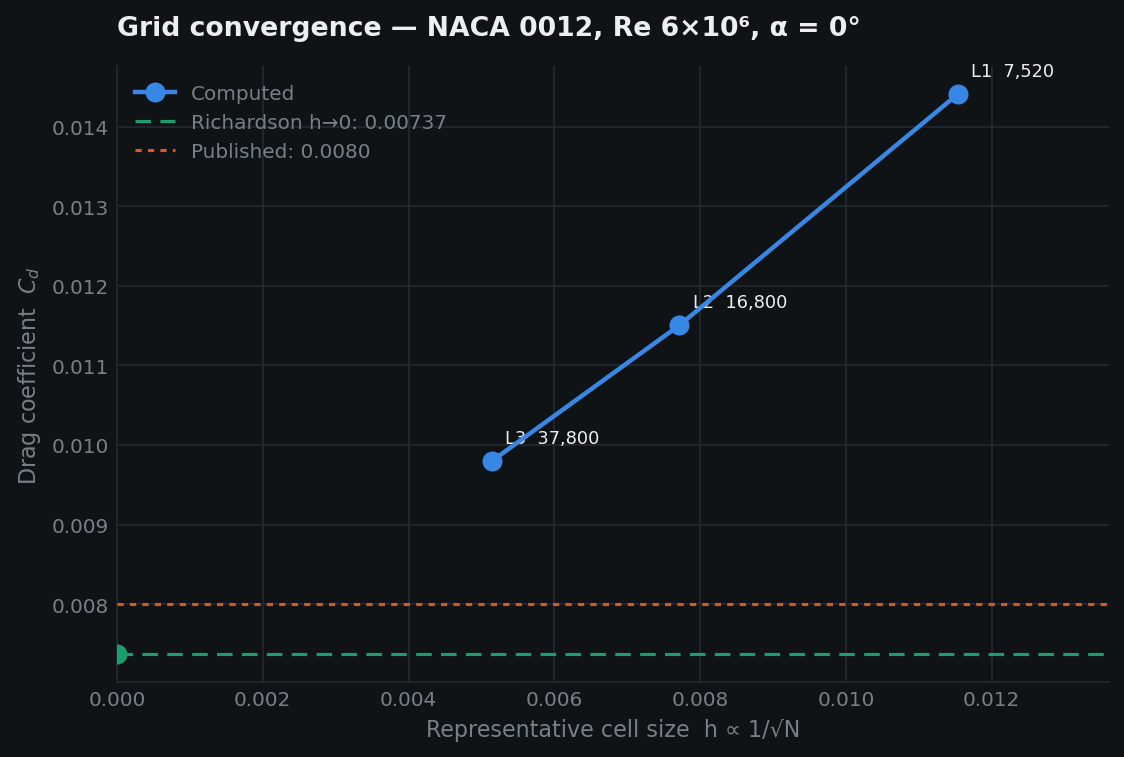
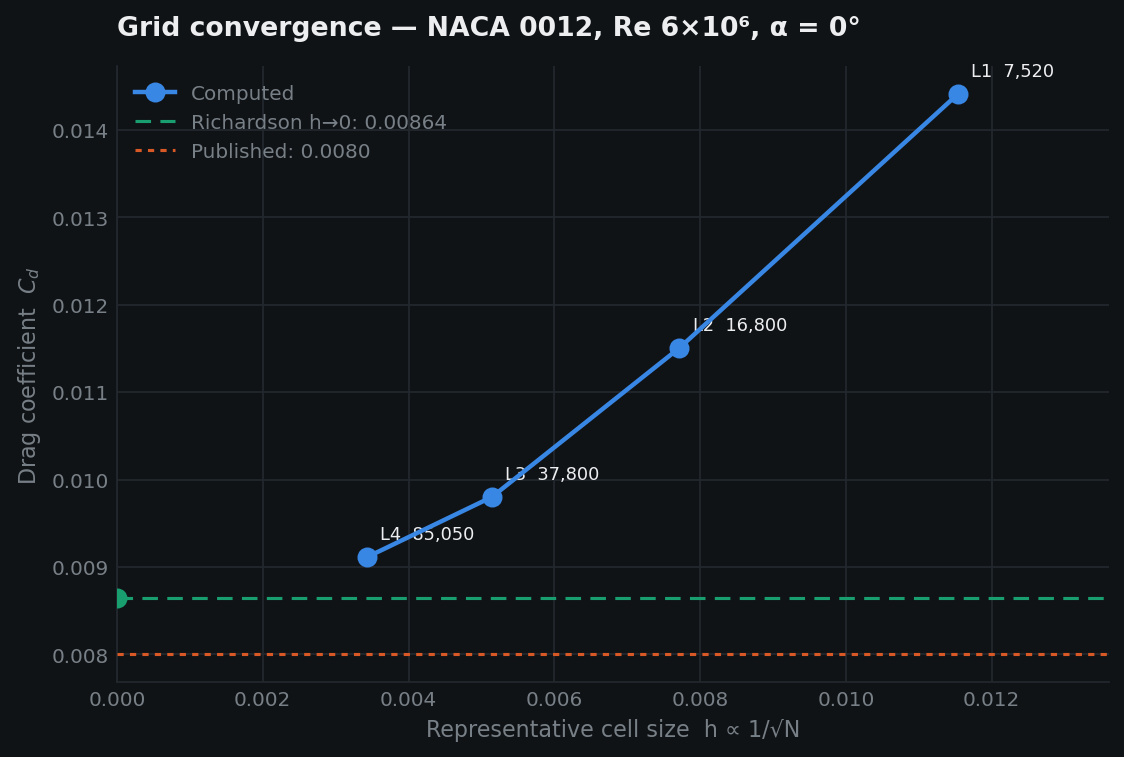
Complete the mesh independence study with the finest level
L4 at 85 050 cells gives Cd 0.009111 and changes the conclusion, not just
its precision.

On the three coarsest levels the analysis reported an observed order of
1.31, an extrapolation of 0.00737 and a GCI of 31%. With L4 the order is
2.24 — close to the scheme's formal second order — the band narrows to
6.4%, and the extrapolation moves to 0.008645.

That is the opposite side of the published 0.0080. The coarse-grid answer
was not merely less precise, it was biased the other way, and it looked
entirely respectable at the time: monotone sequence, plausible order, and
agreement with published data to 8%. Three grids are the minimum
Richardson needs; they are not evidence of being in the asymptotic range.
Computing the observed order instead of assuming p = 2 is what exposes
the difference.

The residual +8.1% slightly exceeds the 6.4% numerical uncertainty, so
some of it is modelling rather than discretisation, and the sign is the
expected one: k-omega SST without a transition model computes fully
turbulent flow from the leading edge, while the published measurement is
a smooth aerofoil at Re 6e6 with natural transition and a laminar run
over the forward chord. A fully turbulent computation should over-predict
drag. Confirming that needs kOmegaSSTLM rather than an assertion here.

Cl stays at the 1e-6 level across all four refinements.

diff --git a/README.md b/README.md
@@ -38,7 +38,7 @@ write lands in the container and vanishes with `--rm`.
 | checkMesh | non-orthogonality **69.7 max** (limit 70), skewness **1.00**, no negative volumes |
 | y+ on the aerofoil | **0.45 – 0.93**, average 0.68 — resolved, no wall functions |
 | Cl at α = 0 | **−4.2e-05** — symmetry holds, as a NACA 0012 requires |
-| Cd at α = 0 | **0.0116** against ~0.008 published — 45% high, see below |
+| Cd at α = 0 | **0.009111** on the finest mesh; 0.008645 extrapolated to h→0 |
 
 checkMesh reports one failure, high aspect ratio. That is inherent to a
 boundary layer resolved to y+ < 1: the wall cell is 9.4 µm tall and 25 mm long.
@@ -62,29 +62,55 @@ parameter.
 | L1 | 7 520 | 2.11e-05 | 2.20 | 0.014407 | +7.6e-07 |
 | L2 | 16 800 | 1.40e-05 | 1.39 | 0.011505 | +1.8e-06 |
 | L3 | 37 800 | 9.35e-06 | 0.95 | 0.009800 | +1.5e-07 |
+| L4 | 85 050 | 6.24e-06 | 0.69 | **0.009111** | +1.5e-06 |
 
-Monotone, and Cl stays at the 1e-6 level throughout — the symmetry that the
-gradient limiter destroyed holds at every refinement.
+Monotone, and Cl stays at the 1e-6 level throughout — the symmetry the gradient
+limiter destroyed holds at every refinement.
 
-Roache's Grid Convergence Index on the three levels:
+![Grid convergence](validation/grid-convergence.png)
+
+Roache's Grid Convergence Index on the three finest levels:
 
 | | |
 |---|---|
-| Observed order of convergence | **p = 1.31** |
-| Richardson extrapolation to h→0 | **Cd = 0.00737** |
-| GCI on the finest grid | **31%** |
+| Observed order of convergence | **p = 2.24** |
+| Richardson extrapolation to h→0 | **Cd = 0.008645** |
+| GCI on the finest grid | **6.4%** |
 | Published (Abbott & Von Doenhoff) | 0.0080 |
-| Extrapolated vs published | **−7.9%** |
+| Extrapolated vs published | **+8.1%** |
 
-The order is 1.31 rather than the scheme's formal 2. That is normal and worth
-stating plainly: the divergence terms on k and omega use `limitedLinear`, which
-is first-order where it limits, and the sequence is not yet deep in the
-asymptotic range.
+### Why the fourth level mattered
 
-**The 31% GCI is the honest headline, not the −7.9%.** It says the finest grid
-still carries substantial discretisation uncertainty, so the agreement with
-published data is better than the mesh alone can justify. Quoting −7.9% without
-it would overclaim.
+On the three *coarsest* levels the same analysis reported p = 1.31, an
+extrapolation of 0.00737 and a GCI of 31%. Adding L4 moved the observed order
+to 2.24 — close to the scheme's formal second order — and cut the uncertainty
+band to 6.4%.
+
+The extrapolated value moved from 0.00737 to 0.008645, which is **the opposite
+side of the published figure**. The coarse-grid answer was not merely less
+precise, it was biased the other way, and it looked perfectly respectable at
+the time: monotone sequence, plausible order, a number agreeing with published
+data to 8%.
+
+That is the argument for computing the observed order rather than assuming
+p = 2, and for not trusting an extrapolation until the order it reports is
+close to the scheme's. Three grids are the minimum the method needs; they are
+not necessarily enough to be in the asymptotic range.
+
+### The residual 8%
+
+The discrepancy (+8.1%) slightly exceeds the numerical uncertainty (6.4%), so
+it is not all discretisation — a modelling difference remains, and its sign is
+the expected one.
+
+k-omega SST with no transition model computes **fully turbulent** flow from the
+leading edge. The published measurement is a smooth aerofoil at Re 6e6 with
+natural transition, which leaves a laminar run over the forward chord and lower
+skin friction with it. A fully turbulent computation should over-predict drag,
+and about 8% is a reasonable size for that difference at this Reynolds number.
+
+Confirming it needs a transition-sensitive model — `kOmegaSSTLM` is the obvious
+next experiment — rather than being asserted here.
 
 ## Core concepts
 
@@ -126,7 +152,7 @@ case/
 - [ ] y+ verified from the solution, not just estimated beforehand
 - [ ] Residuals converged, and force coefficients flat — residuals alone are
       not convergence
-- [ ] Mesh independence across three refinements
+- [x] Mesh independence across four refinements, with GCI
 - [ ] Cl vs alpha plotted against published data
 - [ ] Cd vs alpha plotted against published data, with the discrepancy
       discussed honestly
@@ -174,4 +200,5 @@ not to be the cause of the asymmetry above — blockMesh collapses the duplicate
 
 | Date | What was done |
 |---|---|
+| 2026-08-19 | Mesh independence study: four levels, 7.5k to 85k cells, refining wall spacing with everything else so Richardson applies. Observed order 2.24, extrapolated Cd 0.008645, GCI 6.4%. The three coarsest levels alone gave p=1.31 and an extrapolation on the opposite side of the published value — a good reminder that three grids are the method's minimum, not proof of asymptotic behaviour. |
 | 2026-08-19 | OpenFOAM v2512 running natively on arm64 under colima. `src/cgrid.py` generates a 6-block structured C-grid — six because blockMesh identifies an edge by its vertex pair, so the whole upper and whole lower surface would both be edge (LE, TE) and only one can exist; splitting each surface at mid-chord gives every curved edge a unique pair. `src/case.py` generates fields, properties and solver control from Re and alpha. y+ tuned to ~1 by solving the geometric series for the radial grading. Found the gradient limiter breaking symmetry. 24 tests. |
